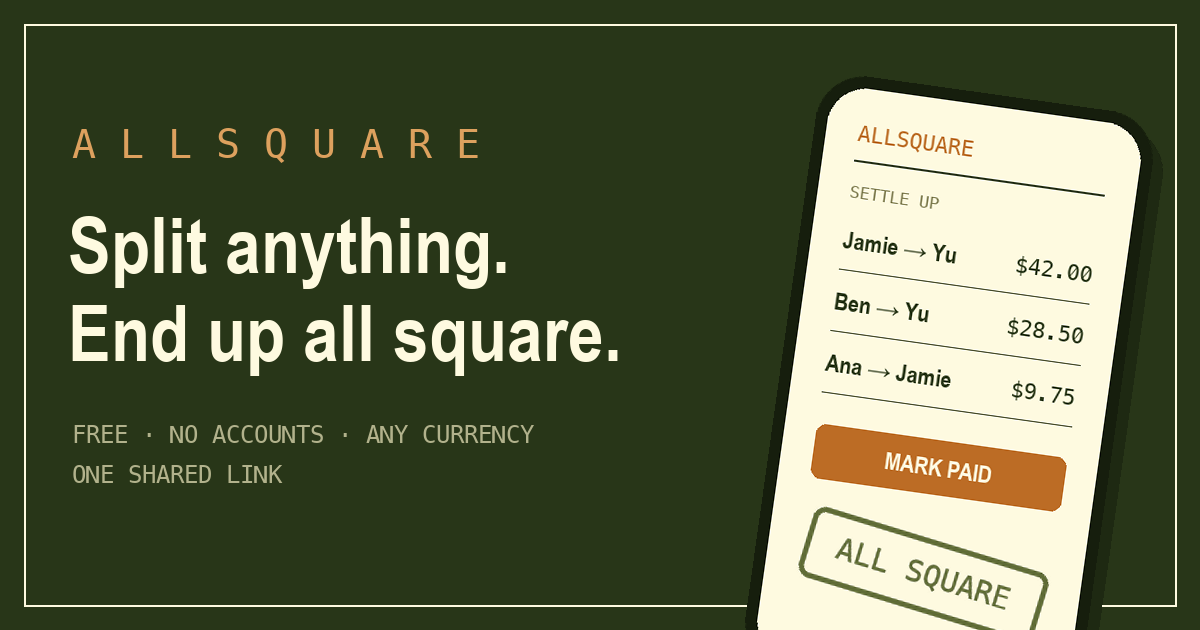
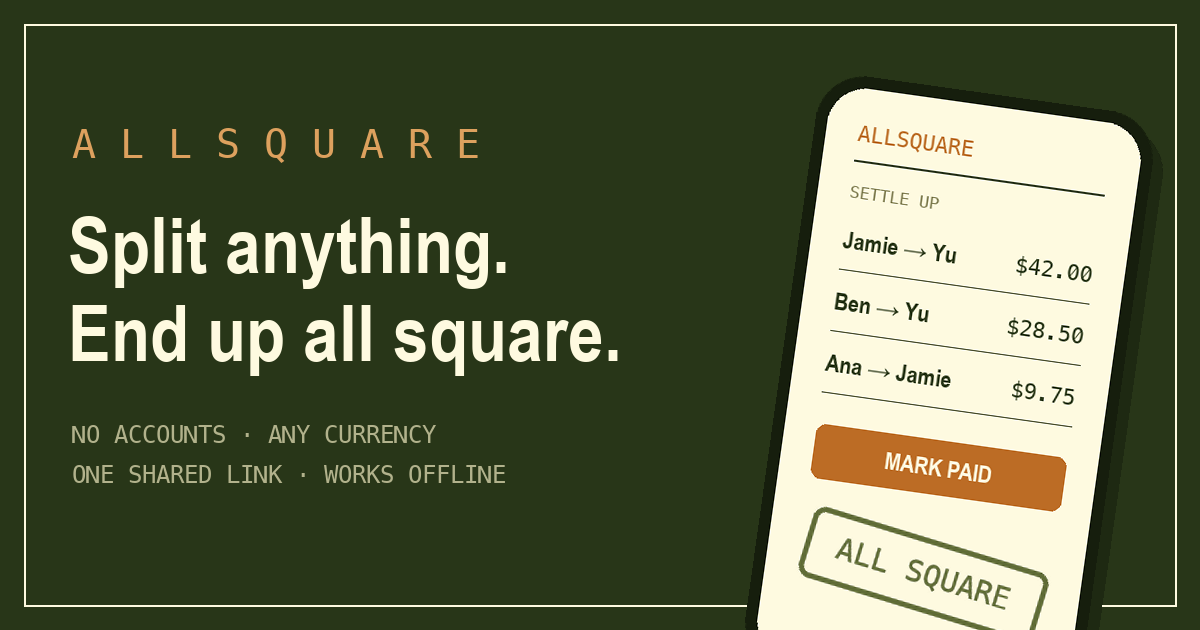
fix(web): user-test fixes + remove 'free' from all copy
- Member picker: clear heading, 'tap your name' instruction, and
  full-width lg buttons so the names read as tappable
- Payer: label is now 'Who paid?', the selected payer renders bold in
  the form, and expense cards bold the payer's name
- Monetization-ready copy: every 'free' removed from landing, FAQ,
  meta tags, JSON-LD (offers block dropped), and the OG image. FAQ
  'Is it free?' replaced with 'Do my friends need to install anything?'

Claude-Session: https://claude.ai/code/session_011kszk9qT8kAmxrcVjWURjc

Changed region(s): [[0.0617, 0.6635, 0.4317, 0.7841]]

diff --git a/web/index.html b/web/index.html
@@ -11,7 +11,7 @@
     <title>Allsquare | Split group bills with no sign-up</title>
     <meta
       name="description"
-      content="Free group bill splitter with no sign-up. Share one link, add expenses in any currency, and settle with the fewest payments. A free Splitwise alternative for trips, dinners, and shared houses."
+      content="Group bill splitter with no sign-up. Share one link, add expenses in any currency, and settle with the fewest payments. A Splitwise alternative for trips, dinners, and shared houses."
     />
     <link rel="canonical" href="https://all-sqr.com/" />
     <meta name="robots" content="index, follow" />
@@ -22,7 +22,7 @@
     <meta property="og:title" content="Allsquare | Split group bills with no sign-up" />
     <meta
       property="og:description"
-      content="Split anything. End up all square. Free, no accounts, any currency, one shared link."
+      content="Split anything. End up all square. No accounts, any currency, one shared link."
     />
     <meta property="og:url" content="https://all-sqr.com/" />
     <meta property="og:image" content="https://all-sqr.com/og.png" />
@@ -35,7 +35,7 @@
     <meta name="twitter:title" content="Allsquare | Split group bills with no sign-up" />
     <meta
       name="twitter:description"
-      content="Split anything. End up all square. Free, no accounts, any currency, one shared link."
+      content="Split anything. End up all square. No accounts, any currency, one shared link."
     />
     <meta name="twitter:image" content="https://all-sqr.com/og.png" />
 
@@ -46,15 +46,10 @@
         "@type": "WebApplication",
         "name": "Allsquare",
         "url": "https://all-sqr.com/",
-        "description": "Free group bill splitter with no sign-up. Share one link, add expenses in any currency, and settle with the fewest payments.",
+        "description": "Group bill splitter with no sign-up. Share one link, add expenses in any currency, and settle with the fewest payments.",
         "applicationCategory": "FinanceApplication",
         "operatingSystem": "Any",
-        "browserRequirements": "Requires JavaScript",
-        "offers": {
-          "@type": "Offer",
-          "price": "0",
-          "priceCurrency": "USD"
-        }
+        "browserRequirements": "Requires JavaScript"
       }
     </script>
     <script type="application/ld+json">
@@ -72,10 +67,10 @@
           },
           {
             "@type": "Question",
-            "name": "Is Allsquare really free?",
+            "name": "Do my friends need to install anything?",
             "acceptedAnswer": {
               "@type": "Answer",
-              "text": "Yes. Unlimited expenses, unlimited members, and every currency, at no cost."
+              "text": "No. The link opens in any browser, on any phone or laptop. Allsquare can also be added to the home screen like an app."
             }
           },
           {
@@ -91,7 +86,7 @@
             "name": "How is Allsquare different from Splitwise?",
             "acceptedAnswer": {
               "@type": "Answer",
-              "text": "There are no accounts, nothing to install, and no paywall. Unlimited expenses and multi-currency support are free."
+              "text": "There are no accounts and nothing to install. Start a group, share the link, and everyone is in within seconds."
             }
           }
         ]

diff --git a/web/src/components/MemberPicker.tsx b/web/src/components/MemberPicker.tsx
@@ -9,12 +9,23 @@ export function MemberPicker({
   onPick: (memberId: string) => void
 }) {
   return (
-    <section aria-label="Who are you?">
-      <h2>Who are you?</h2>
-      <ul className="flex flex-wrap gap-2">
+    <section aria-label="Who are you?" className="flex flex-col gap-3">
+      <div className="flex flex-col gap-1">
+        <h2 className="text-lg font-semibold">Who are you?</h2>
+        <p className="text-sm text-muted-foreground">
+          Tap your name below so this device knows which balance is yours.
+        </p>
+      </div>
+      <ul className="flex flex-col gap-2">
         {members.map((m) => (
           <li key={m.id}>
-            <Button type="button" variant="outline" onClick={() => onPick(m.id)}>
+            <Button
+              type="button"
+              variant="outline"
+              size="lg"
+              className="w-full justify-start text-base font-semibold"
+              onClick={() => onPick(m.id)}
+            >
               I'm {m.name}
             </Button>
           </li>

diff --git a/web/src/routes/Landing.tsx b/web/src/routes/Landing.tsx
@@ -55,8 +55,8 @@ const FAQS = [
     a: "No. Start a group, share the link, and everyone is in. Nobody signs up, ever.",
   },
   {
-    q: "Is Allsquare really free?",
-    a: "Yes. Unlimited expenses, unlimited members, and every currency, at no cost.",
+    q: "Do my friends need to install anything?",
+    a: "No. The link opens in any browser, on any phone or laptop. Allsquare can also be added to the home screen like an app.",
   },
   {
     q: "How does multi-currency splitting work?",
@@ -64,7 +64,7 @@ const FAQS = [
   },
   {
     q: "How is Allsquare different from Splitwise?",
-    a: "There are no accounts, nothing to install, and no paywall. Unlimited expenses and multi-currency support are free.",
+    a: "There are no accounts and nothing to install. Start a group, share the link, and everyone is in within seconds.",
   },
 ]
 
@@ -87,7 +87,7 @@ export function Landing() {
           <Link to="/new">Start a group</Link>
         </Button>
         <p className="font-mono text-[0.62rem] uppercase tracking-wider text-muted-foreground">
-          Free · no accounts · no cookies · works offline
+          No accounts · no cookies · any currency · works offline
         </p>
       </section>
 
@@ -152,7 +152,7 @@ export function Landing() {
         <Stamp state="square" className="scale-150" />
         <p className="text-muted-foreground">Every group ends the same way.</p>
         <Button asChild size="lg" className="w-full sm:w-fit sm:px-10">
-          <Link to="/new">Start a group for free</Link>
+          <Link to="/new">Start a group now</Link>
         </Button>
         <p className="text-xs text-muted-foreground">
           No cookies, no tracking. Your trip list stays on your device.

diff --git a/web/src/components/ExpenseCard.tsx b/web/src/components/ExpenseCard.tsx
@@ -46,7 +46,12 @@ export function ExpenseCard({
         />
       </CardHeader>
       <CardContent>
-        <p className="text-sm text-muted-foreground">{nameOf.get(expense.payerId) ?? "?"} paid</p>
+        <p className="text-sm text-muted-foreground">
+          <span className="font-semibold text-foreground">
+            {nameOf.get(expense.payerId) ?? "?"}
+          </span>{" "}
+          paid
+        </p>
         <ul
           aria-label={`Breakdown for ${expense.description}`}
           className="flex flex-col gap-1 border-l-2 border-foil/50 pl-3"

diff --git a/web/src/components/ExpenseForm.tsx b/web/src/components/ExpenseForm.tsx
@@ -191,9 +191,9 @@ export function ExpenseForm({
     >
       <h2 className="text-lg font-semibold">{editing ? "Edit expense" : "Add an expense"}</h2>
       <div className="flex flex-col gap-1.5">
-        <Label htmlFor="payer-trigger">Payer</Label>
+        <Label htmlFor="payer-trigger">Who paid?</Label>
         <Select value={payerId} onValueChange={setPayerId}>
-          <SelectTrigger id="payer-trigger" aria-label="Payer">
+          <SelectTrigger id="payer-trigger" aria-label="Payer" className="font-semibold">
             <SelectValue />
           </SelectTrigger>
           <SelectContent>

diff --git a/web/src/components/ExpenseCard.test.tsx b/web/src/components/ExpenseCard.test.tsx
@@ -37,7 +37,7 @@ const exactExpense: Expense = {
 test("shows the description, total (with base), and who paid", () => {
   render(<ExpenseCard expense={expense} members={members} baseCurrency="USD" />)
   screen.getByText("Taxi")
-  screen.getByText("Alice paid")
+  screen.getByText((_, el) => el?.tagName === "P" && el.textContent?.replace(/\s+/g, " ").trim() === "Alice paid")
   // 5000 JPY * 0.0066 = 3300 cents = $33.00
   screen.getByText("¥5,000 · ≈ $33.00")
 })

diff --git a/web/src/components/ExpenseList.test.tsx b/web/src/components/ExpenseList.test.tsx
@@ -26,7 +26,7 @@ const expenses: Expense[] = [
 test("shows the original amount as truth and the base as derived", () => {
   render(<ExpenseList expenses={expenses} members={members} baseCurrency="USD" />)
   screen.getByText("Ramen")
-  screen.getByText("Alice paid")
+  screen.getByText((_, el) => el?.tagName === "P" && el.textContent?.replace(/\s+/g, " ").trim() === "Alice paid")
   // 5000 JPY * 0.0066 = 3300 cents = $33.00
   screen.getByText("¥5,000 · ≈ $33.00")
 })

diff --git a/web/src/lib/pageMeta.ts b/web/src/lib/pageMeta.ts
@@ -3,7 +3,7 @@ import { useEffect } from "react"
 export const DEFAULT_META = {
   title: "Allsquare | Split group bills with no sign-up",
   description:
-    "Free group bill splitter with no sign-up. Share one link, add expenses in any currency, and settle with the fewest payments. A free Splitwise alternative for trips, dinners, and shared houses.",
+    "Group bill splitter with no sign-up. Share one link, add expenses in any currency, and settle with the fewest payments. A Splitwise alternative for trips, dinners, and shared houses.",
 }
 
 // Per-route document metadata. Google renders the SPA, so client-set titles